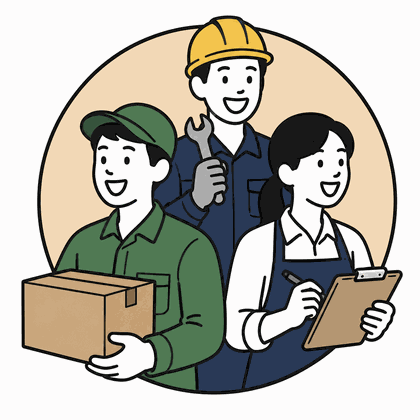
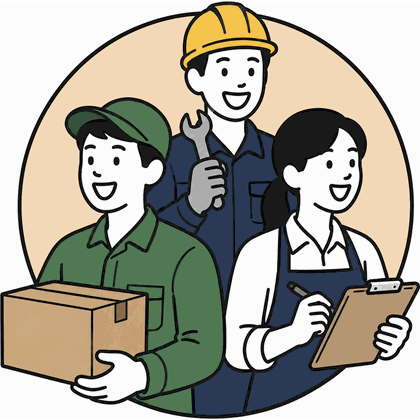
Add files via upload

diff --git a/index.html b/index.html
@@ -148,7 +148,6 @@ h.setAttribute('data-lang-pending','1');setTimeout(function(){h.removeAttribute(
         <div class="hero-card-top">
           <div class="hero-illus" aria-hidden="true"></div>
           <div class="hero-card-body">
-            <p class="eyebrow" data-i18n="heroEyebrow">고용허가제 · E-9</p>
             <h1 class="hero-title" data-i18n="heroTitle">사업장 변경,<br>이제 헤매지 마세요</h1>
             <p class="hero-lead" data-i18n="heroLead">퇴사일만 넣으면 남은 기한이 보입니다.<br>내 언어로, 근거와 함께 확인하세요.</p>
             <!-- 화면에는 보이지 않지만 HTML 에 남는 한 줄입니다. 위의 제목·설명은
@@ -241,33 +240,27 @@ h.setAttribute('data-lang-pending','1');setTimeout(function(){h.removeAttribute(
         <div class="car-track">
         <div class="car-list">
           <a class="hcard hcard-t1" href="reason.html">
-            <span class="hcard-k" data-i18n="secNo2">사유</span>
             <strong data-i18n="ckTitle">사유 자가진단</strong>
             <span class="hcard-d" data-i18n="ckLead">세 가지만 고르면, 내 상황이 어떤 유형에 가까운지와 무엇을 준비하면 되는지 알려 줍니다.</span>
           </a>
           <a class="hcard hcard-t2" href="payout.html">
-            <span class="hcard-k" data-i18n="secNoPay">출국 정산</span>
-            <strong data-i18n="pyTitle">떠나기 전에 받을 돈 확인하기</strong>
+            <strong data-i18n="secNoPay">출국 정산</strong>
             <span class="hcard-d" data-i18n="pyLead">한국을 떠나기 전에 챙겨야 할 돈이 있습니다. 신고와 신청에 각각 기한이 있습니다.</span>
           </a>
           <a class="hcard hcard-t3" href="notices.html">
-            <span class="hcard-k" data-i18n="secNo3">공지</span>
-            <strong data-i18n="ntTitle">공지 쉽게 읽기</strong>
+            <strong data-i18n="navUpdates">최신 제도</strong>
             <span class="hcard-d" data-i18n="ntLead">길고 어려운 공문을 핵심만 추려 옮겼습니다. 원문 링크와 확인한 날짜를 함께 적어 둡니다.</span>
           </a>
           <a class="hcard hcard-t4" href="ask.html">
-            <span class="hcard-k" data-i18n="secNo4">질문</span>
-            <strong data-i18n="askTitle">질문하기</strong>
+            <strong data-i18n="navChatbot">챗봇 질문</strong>
             <span class="hcard-d" data-i18n="askLead">궁금한 점을 적어 주세요. 확인된 법령과 공지 안에서만 답합니다.</span>
           </a>
           <a class="hcard hcard-t5" href="board.html">
-            <span class="hcard-k" data-i18n="secNo5">게시판</span>
-            <strong data-i18n="boardTitle">묻고 답하기</strong>
+            <strong data-i18n="navBoard">질문게시판</strong>
             <span class="hcard-d" data-i18n="boardLead">AI가 답하지 못한 것을 남겨 주세요. 저희가 확인해서 근거와 함께 답변을 올립니다.</span>
           </a>
           <a class="hcard hcard-t6" href="legal.html">
-            <span class="hcard-k" data-i18n="secNoLegal">법률 자문</span>
-            <strong data-i18n="lgTitle">법률 자문 받기</strong>
+            <strong data-i18n="secNoLegal">법률 자문</strong>
             <span class="hcard-d" data-i18n="lgLead">이 서비스가 답하지 못하는 문제는 아래 기관에서 상담받을 수 있습니다.</span>
           </a>
         </div>

diff --git a/assets/i18n/my.js b/assets/i18n/my.js
@@ -1,0 +1,33 @@
+/* E9-Bridge — UI 문자열 (my · မြန်မာ)
+   ⚠ 초안입니다. 여기 없는 문장은 core.js 가 영어로 메웁니다.
+      전체 번역은 tools/make-lang.mjs 로 채우고, 사람이 검수한 뒤
+      core.js 의 EUM_DRAFT_LANGS 에서 이 코드를 빼세요.
+   공용 상수(CHECKED_ON 등)는 core.js 에 있습니다. */
+
+I18N.my = {
+  daysUnit: 'ရက် ကျန်',
+  daysOver: 'ရက် ကျော်',
+  dlLeaveDate: 'အလုပ်ထွက်သည့်ရက် (စာချုပ်ပြီးဆုံးသည့်ရက်)',
+  docTitle: 'E9-Bridge — အလုပ်ခွင်ပြောင်းခြင်း',
+  brandSub: 'အလုပ်ခွင်ပြောင်းလဲမှု လမ်းညွှန်',
+  draftNote: 'ဤဘာသာစကားမှာ မူကြမ်းအဆင့်ဖြစ်သည်။ အချို့စာကြောင်းများ အင်္ဂလိပ်လိုဖြစ်နေပါသည်။',
+  secNo1: 'သတ်မှတ်ရက်',
+  secNo2: 'အကြောင်းရင်း',
+  secNoPay: 'ထွက်ခွာမီ ရှင်းတမ်း',
+  navFaq: 'မေးလေ့ရှိသောမေးခွန်း',
+  navChatbot: 'ချက်ဘော့ကို မေးရန်',
+  navBoard: 'မေးခွန်းဘုတ်',
+  navUpdates: 'နောက်ဆုံးပြောင်းလဲမှု',
+  secNoLegal: 'ဥပဒေအကြံပေး',
+  navInterview: 'အင်တာဗျူး',
+  heroTitle: 'အလုပ်ခွင်ပြောင်းခြင်း၊<br>နောက်ထပ် မလွဲတော့ပါ',
+  heroLead: 'အလုပ်ထွက်သည့်ရက်ကို ထည့်လိုက်ရုံဖြင့် ကျန်ရက်များကို မြင်ရပါမည်။',
+  heroCta: 'ကျွန်ုပ်၏သတ်မှတ်ရက်ကို တွက်ရန်',
+  heroCta2: 'မေးခွန်းမေးရန်',
+  homePick: 'ဘာများ ထပ်သိချင်ပါသလဲ?',
+  langLabel: 'ဘာသာစကား',
+  reset: 'ရှင်းရန်',
+  errNet: 'ပြဿနာရှိနေသည်။ ထပ်မံကြိုးစားပါ။',
+  ofTitle: 'တရားဝင်ဌာနများ',
+  disclaimer: 'ဤအချက်အလက်မှာ ရည်ညွှန်းရန်သာဖြစ်ပြီး ဥပဒေအကြံဉာဏ်မဟုတ်ပါ။ နောက်ဆုံးအတည်ပြုချက်ကို အလုပ်အကိုင်စင်တာ သို့မဟုတ် 1345 တွင် ရယူပါ။'
+};

diff --git a/assets/i18n/km.js b/assets/i18n/km.js
@@ -1,0 +1,33 @@
+/* E9-Bridge — UI 문자열 (km · ខ្មែរ)
+   ⚠ 초안입니다. 여기 없는 문장은 core.js 가 영어로 메웁니다.
+      전체 번역은 tools/make-lang.mjs 로 채우고, 사람이 검수한 뒤
+      core.js 의 EUM_DRAFT_LANGS 에서 이 코드를 빼세요.
+   공용 상수(CHECKED_ON 등)는 core.js 에 있습니다. */
+
+I18N.km = {
+  daysUnit: 'ថ្ងៃទៀត',
+  daysOver: 'ថ្ងៃហួស',
+  dlLeaveDate: 'ថ្ងៃឈប់ធ្វើការ (ថ្ងៃបញ្ចប់កិច្ចសន្យា)',
+  docTitle: 'E9-Bridge — ការប្តូរកន្លែងធ្វើការ',
+  brandSub: 'ការណែនាំពីការប្តូរកន្លែងធ្វើការ',
+  draftNote: 'ភាសានេះនៅជាសេចក្តីព្រាង។ ប្រយោគខ្លះនៅជាភាសាអង់គ្លេស។',
+  secNo1: 'ថ្ងៃកំណត់',
+  secNo2: 'មូលហេតុ',
+  secNoPay: 'ការទូទាត់មុនចេញដំណើរ',
+  navFaq: 'សំណួរញឹកញាប់',
+  navChatbot: 'សួរជំនួយការ',
+  navBoard: 'ក្តារសំណួរ',
+  navUpdates: 'ការផ្លាស់ប្តូរថ្មី',
+  secNoLegal: 'ប្រឹក្សាច្បាប់',
+  navInterview: 'បទសម្ភាសន៍',
+  heroTitle: 'ការប្តូរកន្លែងធ្វើការ<br>កុំវង្វេងទៀត',
+  heroLead: 'គ្រាន់តែបញ្ចូលថ្ងៃឈប់ធ្វើការ អ្នកនឹងឃើញថ្ងៃដែលនៅសល់។',
+  heroCta: 'គណនាថ្ងៃកំណត់របស់ខ្ញុំ',
+  heroCta2: 'សួរសំណួរ',
+  homePick: 'អ្នកចង់ដឹងអ្វីទៀត?',
+  langLabel: 'ភាសា',
+  reset: 'សម្អាត',
+  errNet: 'មានបញ្ហា។ សូមព្យាយាមម្តងទៀត។',
+  ofTitle: 'ទីកន្លែងផ្លូវការ',
+  disclaimer: 'នេះជាព័ត៌មានយោង មិនមែនជាការប្រឹក្សាច្បាប់ទេ។ សូមផ្ទៀងផ្ទាត់ចុងក្រោយនៅមជ្ឈមណ្ឌលការងារ ឬ 1345។'
+};

diff --git a/assets/i18n/ne.js b/assets/i18n/ne.js
@@ -1,0 +1,33 @@
+/* E9-Bridge — UI 문자열 (ne · नेपाली)
+   ⚠ 초안입니다. 여기 없는 문장은 core.js 가 영어로 메웁니다.
+      전체 번역은 tools/make-lang.mjs 로 채우고, 사람이 검수한 뒤
+      core.js 의 EUM_DRAFT_LANGS 에서 이 코드를 빼세요.
+   공용 상수(CHECKED_ON 등)는 core.js 에 있습니다. */
+
+I18N.ne = {
+  daysUnit: 'दिन बाँकी',
+  daysOver: 'दिन नाघ्यो',
+  dlLeaveDate: 'काम छाडेको मिति (करार सकिएको दिन)',
+  docTitle: 'E9-Bridge — कार्यस्थल परिवर्तन',
+  brandSub: 'कार्यस्थल परिवर्तन मार्गदर्शन',
+  draftNote: 'यो भाषा अझै मस्यौदा हो। केही वाक्य अङ्ग्रेजीमा छन्।',
+  secNo1: 'म्याद',
+  secNo2: 'कारण',
+  secNoPay: 'प्रस्थान हिसाब',
+  navFaq: 'बारम्बार सोधिने प्रश्न',
+  navChatbot: 'च्याटबटलाई सोध्नुहोस्',
+  navBoard: 'प्रश्न पाटी',
+  navUpdates: 'नयाँ परिवर्तन',
+  secNoLegal: 'कानुनी परामर्श',
+  navInterview: 'अन्तर्वार्ता',
+  heroTitle: 'कार्यस्थल परिवर्तन,<br>अब अलमलिनु पर्दैन',
+  heroLead: 'काम छाडेको मिति हाल्नुहोस्, बाँकी दिन देखिन्छ।',
+  heroCta: 'मेरो म्याद हेर्नुहोस्',
+  heroCta2: 'प्रश्न सोध्नुहोस्',
+  homePick: 'अरू के जान्न चाहनुहुन्छ?',
+  langLabel: 'भाषा',
+  reset: 'मेटाउनुहोस्',
+  errNet: 'समस्या भयो। फेरि प्रयास गर्नुहोस्।',
+  ofTitle: 'आधिकारिक निकाय',
+  disclaimer: 'यो जानकारी सन्दर्भका लागि हो, कानुनी सल्लाह होइन। अन्तिम पुष्टि रोजगार केन्द्र वा 1345 मा गर्नुहोस्।'
+};

diff --git a/assets/i18n/si.js b/assets/i18n/si.js
@@ -1,0 +1,33 @@
+/* E9-Bridge — UI 문자열 (si · සිංහල)
+   ⚠ 초안입니다. 여기 없는 문장은 core.js 가 영어로 메웁니다.
+      전체 번역은 tools/make-lang.mjs 로 채우고, 사람이 검수한 뒤
+      core.js 의 EUM_DRAFT_LANGS 에서 이 코드를 빼세요.
+   공용 상수(CHECKED_ON 등)는 core.js 에 있습니다. */
+
+I18N.si = {
+  daysUnit: 'දින ඉතිරියි',
+  daysOver: 'දින ඉක්මවා',
+  dlLeaveDate: 'ඉවත් වූ දිනය (ගිවිසුම අවසන් වූ දිනය)',
+  docTitle: 'E9-Bridge — සේවා ස්ථානය වෙනස් කිරීම',
+  brandSub: 'සේවා ස්ථානය වෙනස් කිරීමේ මාර්ගෝපදේශය',
+  draftNote: 'මෙම භාෂාව තවම කෙටුම්පතකි. සමහර වාක්ය ඉංග්රීසියෙන් ඇත.',
+  secNo1: 'කාල සීමාව',
+  secNo2: 'හේතුව',
+  secNoPay: 'පිටත්වීමට පෙර ගිණුම',
+  navFaq: 'නිතර අසන පැන',
+  navChatbot: 'චැට්බොට්ගෙන් අසන්න',
+  navBoard: 'ප්රශ්න පුවරුව',
+  navUpdates: 'නවතම වෙනස්කම්',
+  secNoLegal: 'නීති උපදෙස්',
+  navInterview: 'සම්මුඛ සාකච්ඡා',
+  heroTitle: 'සේවා ස්ථානය වෙනස් කිරීම,<br>තව දුරටත් අවුල් නොවන්න',
+  heroLead: 'ඉවත් වූ දිනය ඇතුළත් කළ විට ඉතිරි දින පෙනේ.',
+  heroCta: 'මගේ කාල සීමාව බලන්න',
+  heroCta2: 'ප්රශ්නයක් අසන්න',
+  homePick: 'තව මොනවාද දැනගන්න ඕන?',
+  langLabel: 'භාෂාව',
+  reset: 'මකන්න',
+  errNet: 'ගැටලුවක් ඇති විය. නැවත උත්සාහ කරන්න.',
+  ofTitle: 'නිල ආයතන',
+  disclaimer: 'මෙය තොරතුරු පමණි, නීති උපදෙස් නොවේ. අවසන් තහවුරු කිරීම රැකියා මධ්යස්ථානයෙන් හෝ 1345 වෙතින් ලබා ගන්න.'
+};

diff --git a/assets/i18n/core.js b/assets/i18n/core.js
@@ -9,7 +9,7 @@
 
 /* 지금 파일이 있는 언어만 넣습니다. 새 언어 파일을 만들면 여기에 코드를 더하세요.
    목록에 없는 코드는 감지에서도 선택기에서도 제외됩니다. */
-var EUM_LANGS = ['ko', 'en', 'vi', 'th', 'id'];
+var EUM_LANGS = ['ko', 'en', 'vi', 'th', 'id', 'km', 'ne', 'my', 'si', 'uz'];
 
 /* 고용허가제(E-9) 송출국에서 쓰는 말들. 화면에 보일 이름을 그 언어 그대로 적습니다.
    자기 언어를 찾는 사람은 "Khmer" 가 아니라 "ខ្មែរ" 를 찾습니다.
@@ -67,15 +67,41 @@ var EUM_LANG = (function () {
   return 'en';
 })();
 
+/* 검수가 끝나지 않은 언어. 아직 번역되지 않은 문장은 영어로 채우고,
+   화면 위에 "초안" 이라고 알려 줍니다. 빈칸으로 두는 것보다 낫고,
+   다 된 것처럼 보이게 두는 것보다도 낫습니다. */
+var EUM_DRAFT_LANGS = ['ne', 'my', 'si', 'uz'];
+
 /* 언어를 나중에 바꿀 때 그 언어 파일을 그때 받아 옵니다.
    이미 받아 둔 언어면 곧바로 콜백을 부릅니다. */
 function eumLoadLang(code, cb) {
   if (EUM_LANGS.indexOf(code) < 0) { cb(false); return; }
   if (I18N[code]) { cb(true); return; }
 
-  var s = document.createElement('script');
-  s.src = 'assets/i18n/' + code + '.js';
-  s.onload = function () { cb(!!I18N[code]); };
-  s.onerror = function () { cb(false); };
-  document.head.appendChild(s);
+  /* 초안 언어는 영어를 먼저 받아 두어야 합니다. 빠진 문장을 영어로 메웁니다. */
+  var needEn = EUM_DRAFT_LANGS.indexOf(code) !== -1 && !I18N.en;
+
+  function grab(c, done) {
+    var s = document.createElement('script');
+    s.src = 'assets/i18n/' + c + '.js';
+    s.onload = function () { done(!!I18N[c]); };
+    s.onerror = function () { done(false); };
+    document.head.appendChild(s);
+  }
+
+  function after() {
+    grab(code, function (ok) {
+      if (ok && I18N.en && EUM_DRAFT_LANGS.indexOf(code) !== -1) {
+        // 영어를 바탕에 깔고 그 위에 번역된 것만 덮어씁니다.
+        var merged = {}, k;
+        for (k in I18N.en) merged[k] = I18N.en[k];
+        for (k in I18N[code]) merged[k] = I18N[code][k];
+        I18N[code] = merged;
+      }
+      cb(ok);
+    });
+  }
+
+  if (needEn) grab('en', function () { after(); });
+  else after();
 }

diff --git a/assets/i18n/uz.js b/assets/i18n/uz.js
@@ -1,0 +1,33 @@
+/* E9-Bridge — UI 문자열 (uz · Oʻzbekcha)
+   ⚠ 초안입니다. 여기 없는 문장은 core.js 가 영어로 메웁니다.
+      전체 번역은 tools/make-lang.mjs 로 채우고, 사람이 검수한 뒤
+      core.js 의 EUM_DRAFT_LANGS 에서 이 코드를 빼세요.
+   공용 상수(CHECKED_ON 등)는 core.js 에 있습니다. */
+
+I18N.uz = {
+  daysUnit: 'kun qoldi',
+  daysOver: 'kun oʻtdi',
+  dlLeaveDate: 'Ishdan boʻshagan sana (shartnoma tugagan kun)',
+  docTitle: 'E9-Bridge — Ish joyini oʻzgartirish',
+  brandSub: 'Ish joyini oʻzgartirish boʻyicha qoʻllanma',
+  draftNote: 'Bu til hali qoralama. Ayrim gaplar ingliz tilida qoladi.',
+  secNo1: 'Muddat',
+  secNo2: 'Sabab',
+  secNoPay: 'Ketishdan oldingi hisob',
+  navFaq: 'Koʻp beriladigan savollar',
+  navChatbot: 'Chatbotdan soʻrash',
+  navBoard: 'Savollar doskasi',
+  navUpdates: 'Soʻnggi oʻzgarishlar',
+  secNoLegal: 'Yuridik maslahat',
+  navInterview: 'Intervyular',
+  heroTitle: 'Ish joyini oʻzgartirish,<br>endi adashmang',
+  heroLead: 'Ishdan boʻshagan sanani kiriting — qolgan kunlar koʻrinadi.',
+  heroCta: 'Muddatimni hisoblash',
+  heroCta2: 'Savol berish',
+  homePick: 'Yana nimani bilmoqchisiz?',
+  langLabel: 'Til',
+  reset: 'Tozalash',
+  errNet: 'Xatolik yuz berdi. Qayta urinib koʻring.',
+  ofTitle: 'Rasmiy idoralar',
+  disclaimer: 'Bu maʼlumot faqat maʼlumot uchun, yuridik maslahat emas. Yakuniy tasdiqni bandlik markazi yoki 1345 orqali oling.'
+};

diff --git a/assets/style.css b/assets/style.css
@@ -102,8 +102,10 @@ a{color:var(--go-d)}
 .hero-card{background:var(--go-l);border-radius:16px;padding:32px;margin-top:8px}
 .hero-card-top{display:flex;align-items:center;gap:32px}
 .hero-illus{
-  width:140px;height:140px;border-radius:50%;flex:none;
-  background:#fff url('hero-illus.png') center/cover no-repeat;
+  width:170px;height:170px;flex:none;
+  /* 원형 마스크와 흰 배경을 뺐습니다. 그림 자체에 둥근 배경이 들어 있어,
+     흰 원을 깔면 가장자리에 흰 테가 생깁니다. */
+  background:url('hero-illus.png') center/contain no-repeat;
 }
 .hero-card-body{flex:1;min-width:0}
 .hero-card .hero-cta{margin-bottom:24px}
@@ -111,7 +113,7 @@ a{color:var(--go-d)}
 @media (max-width:700px){
   .hero-card{padding:24px}
   .hero-card-top{flex-direction:column;align-items:flex-start;gap:18px}
-  .hero-illus{width:132px;height:132px}
+  .hero-illus{width:150px;height:150px}
 }
 
 .btn{
@@ -1067,4 +1069,11 @@ button.board-row:focus-visible{outline:3px solid var(--go);outline-offset:-3px}
 }
 @media (max-width:560px){
   .itv-photo img{max-height:300px}
+}
+
+/* 검수 전 언어 안내 — 번역이 덜 된 언어를 골랐을 때 본문 맨 위에 뜹니다. */
+.draft-bar{
+  background:var(--warn-l);color:#8a5a00;
+  border-bottom:1px solid var(--warn);
+  padding:11px 18px;font-size:13.5px;line-height:1.6;text-align:center;
 }

diff --git a/assets/app.js b/assets/app.js
@@ -124,6 +124,22 @@
       sel.value = lang;
     }
 
+    /* 검수 전 언어를 고르면 그 사실을 화면에 적어 둡니다.
+       번역이 덜 된 것을 다 된 것처럼 두면, 영어로 남은 문장을
+       "내 언어로 확인했다"고 잘못 믿게 됩니다. */
+    var draft = typeof EUM_DRAFT_LANGS !== 'undefined' && EUM_DRAFT_LANGS.indexOf(lang) !== -1;
+    var bar = $('#draftBar');
+    if (draft && !bar) {
+      bar = el('div', 'draft-bar');
+      bar.id = 'draftBar';
+      var host = document.querySelector('main') || document.body;
+      host.insertBefore(bar, host.firstChild);
+    }
+    if (bar) {
+      bar.hidden = !draft;
+      if (draft) bar.textContent = T.draftNote || 'This language is a draft. Some sentences remain in English.';
+    }
+
     /* 페이지마다 들어 있는 기능이 다릅니다. 각 함수가 자기 요소가 없으면
        조용히 넘어가므로 여기서는 그냥 다 부릅니다. */
     renderNotices();

diff --git a/assets/i18n/th.js b/assets/i18n/th.js
@@ -3,6 +3,7 @@
    공용 상수(CHECKED_ON 등)는 core.js 에 있습니다. */
 
 I18N.th = {
+  draftNote: 'ภาษานี้ยังเป็นฉบับร่าง บางประโยคยังเป็นภาษาอังกฤษ',
   pyHeroLead: 'แตะที่หมายเลขเพื่อโทรได้ทันที หากตกหล่นแม้เพียงข้อเดียวจะเรียกร้องภายหลังได้ยาก ควรตรวจให้ครบทั้งห้าข้อก่อนเดินทางออก',
   navFaq: 'FAQ',
   navChatbot: 'ถามแชตบอต',

diff --git a/assets/i18n/vi.js b/assets/i18n/vi.js
@@ -3,6 +3,7 @@
    공용 상수(CHECKED_ON 등)는 core.js 에 있습니다. */
 
 I18N.vi = {
+  draftNote: 'Ngôn ngữ này còn là bản nháp. Một số câu vẫn bằng tiếng Anh.',
   pyHeroLead: 'Chạm vào số để gọi ngay. Bỏ sót dù chỉ một mục cũng khiến việc đòi sau này khó khăn, hãy kiểm tra đủ năm mục trước khi xuất cảnh.',
   navFaq: 'FAQ',
   navChatbot: 'Hỏi chatbot',

diff --git a/assets/i18n/ko.js b/assets/i18n/ko.js
@@ -3,6 +3,7 @@
    공용 상수(CHECKED_ON 등)는 core.js 에 있습니다. */
 
 I18N.ko = {
+  draftNote: '이 언어는 아직 검수 전입니다. 일부 문장은 영어로 보입니다.',
   pyHeroLead: '번호를 누르면 바로 전화가 걸립니다. 한 가지라도 빠뜨리면 나중에 청구하기 어려우니, 출국 전에 다섯 가지를 모두 확인하세요.',
   navFaq: 'FAQ',
   navChatbot: '챗봇 질문',
